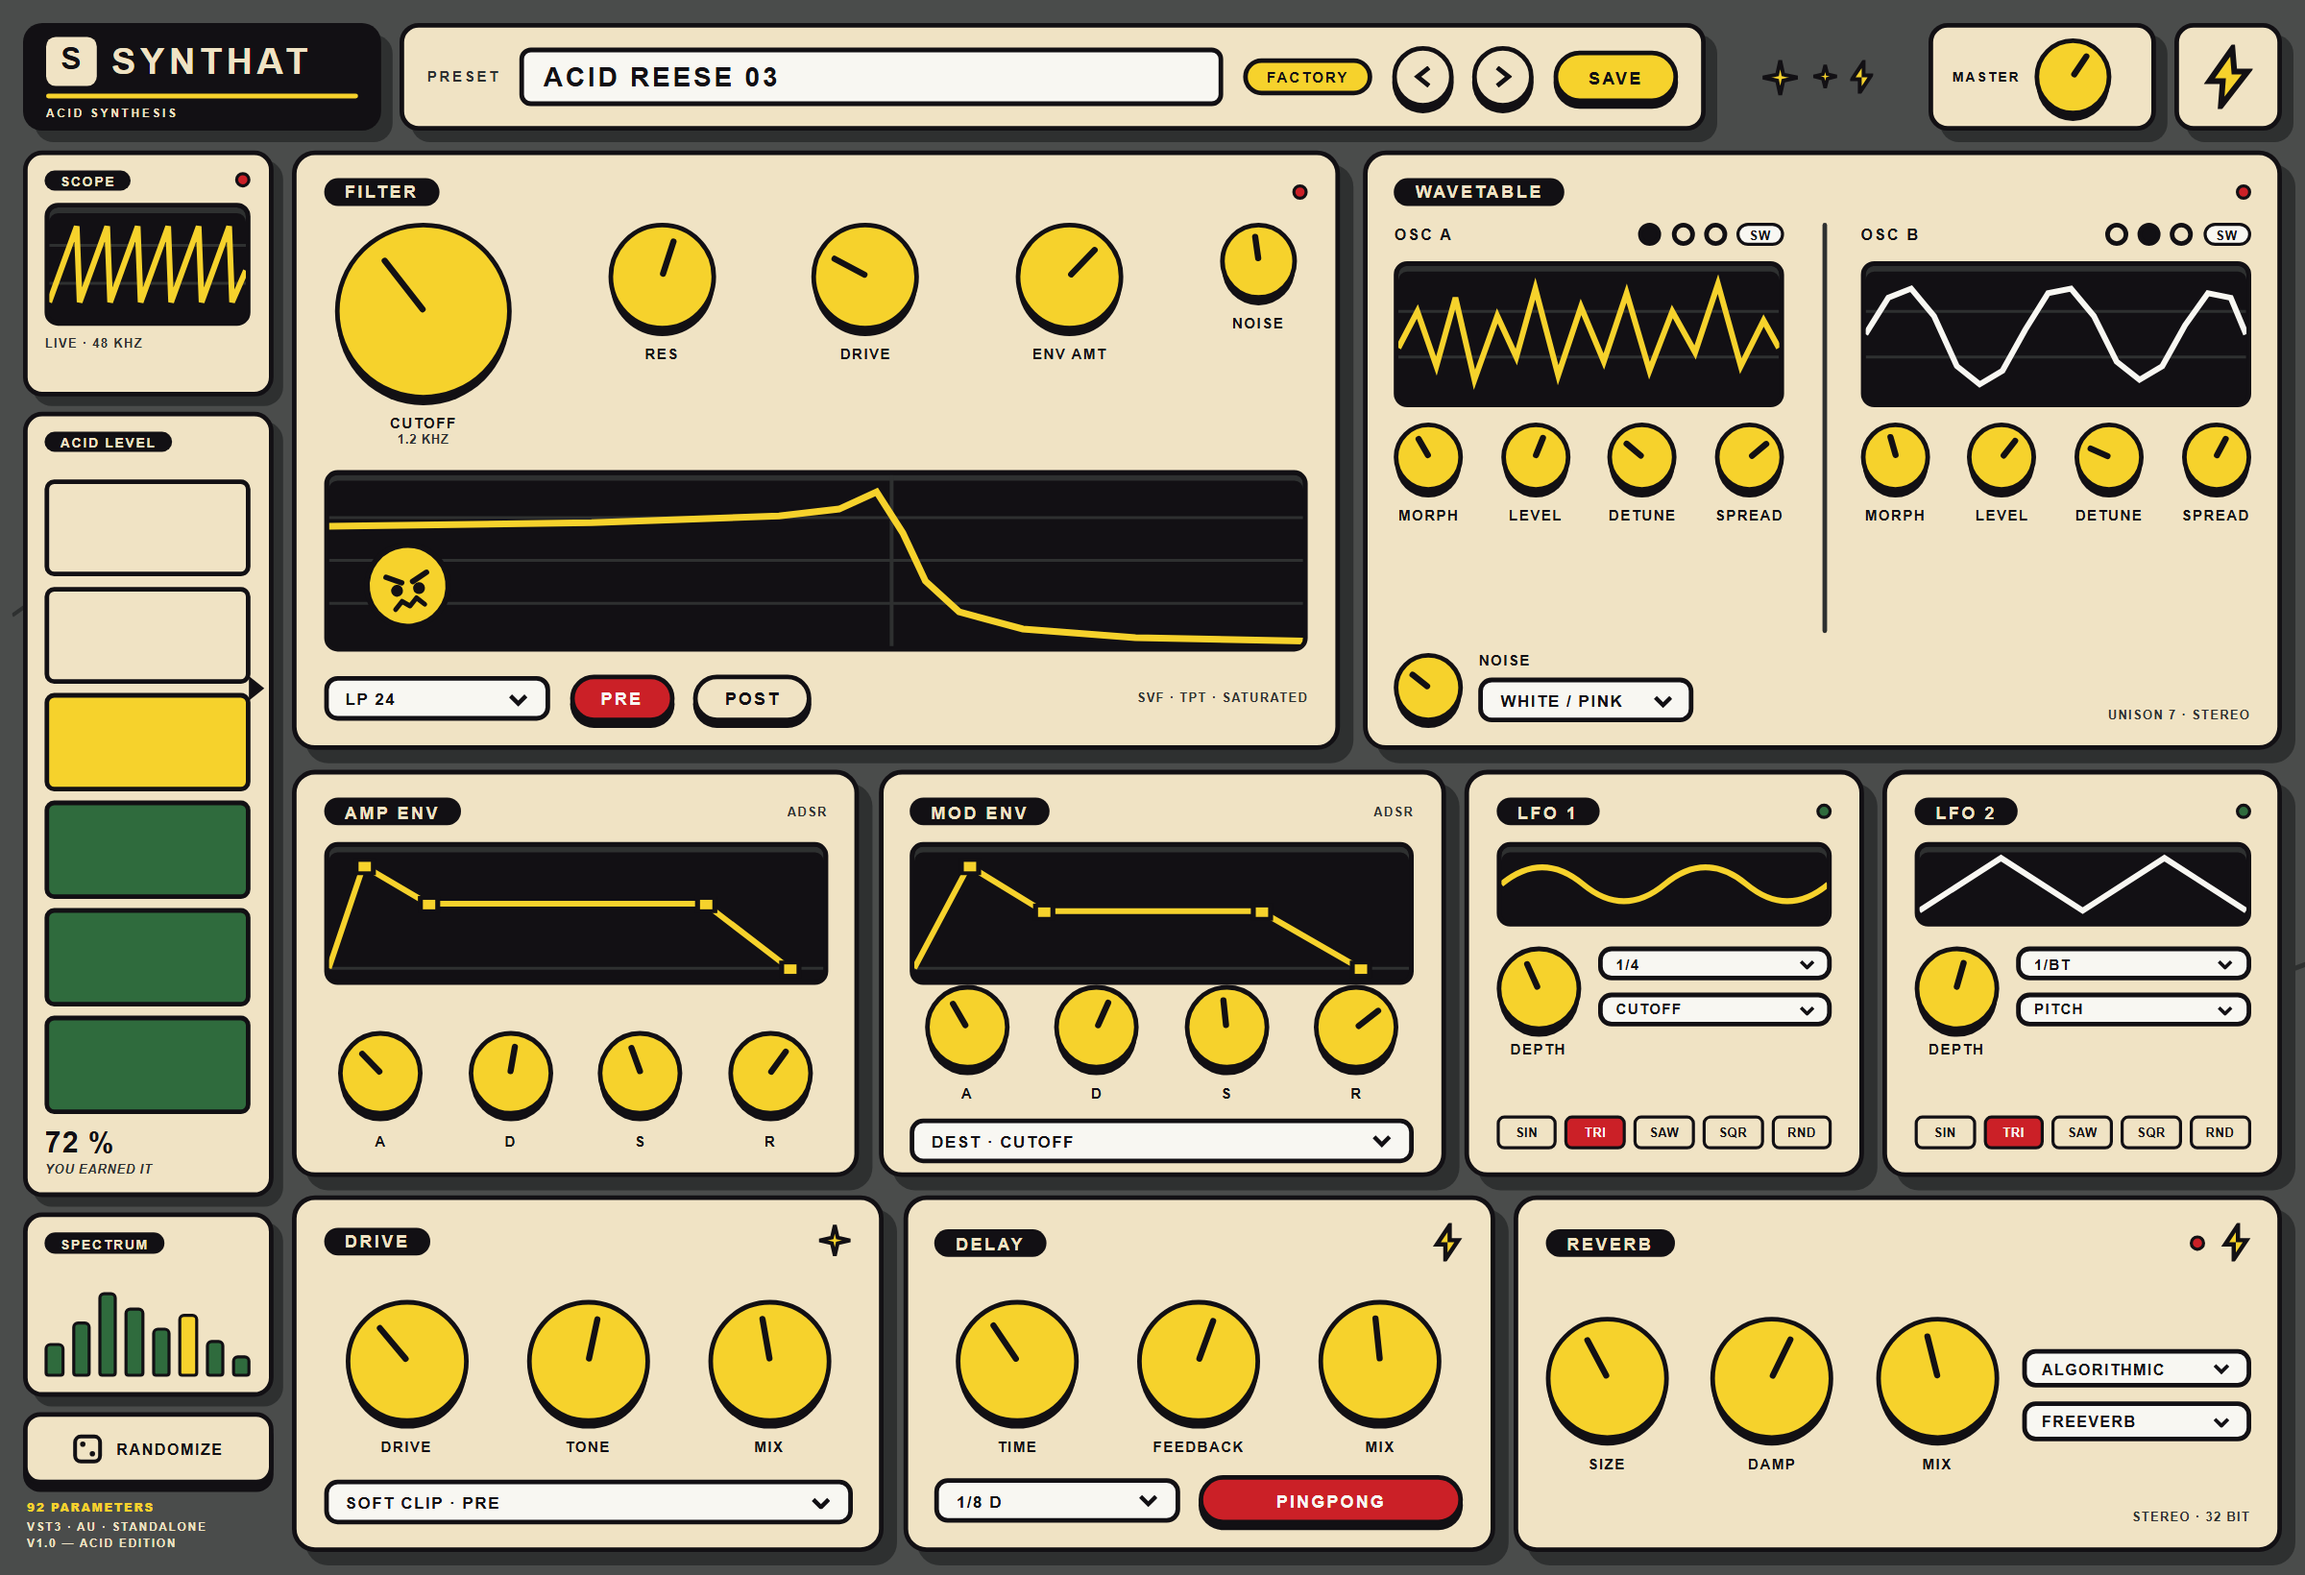
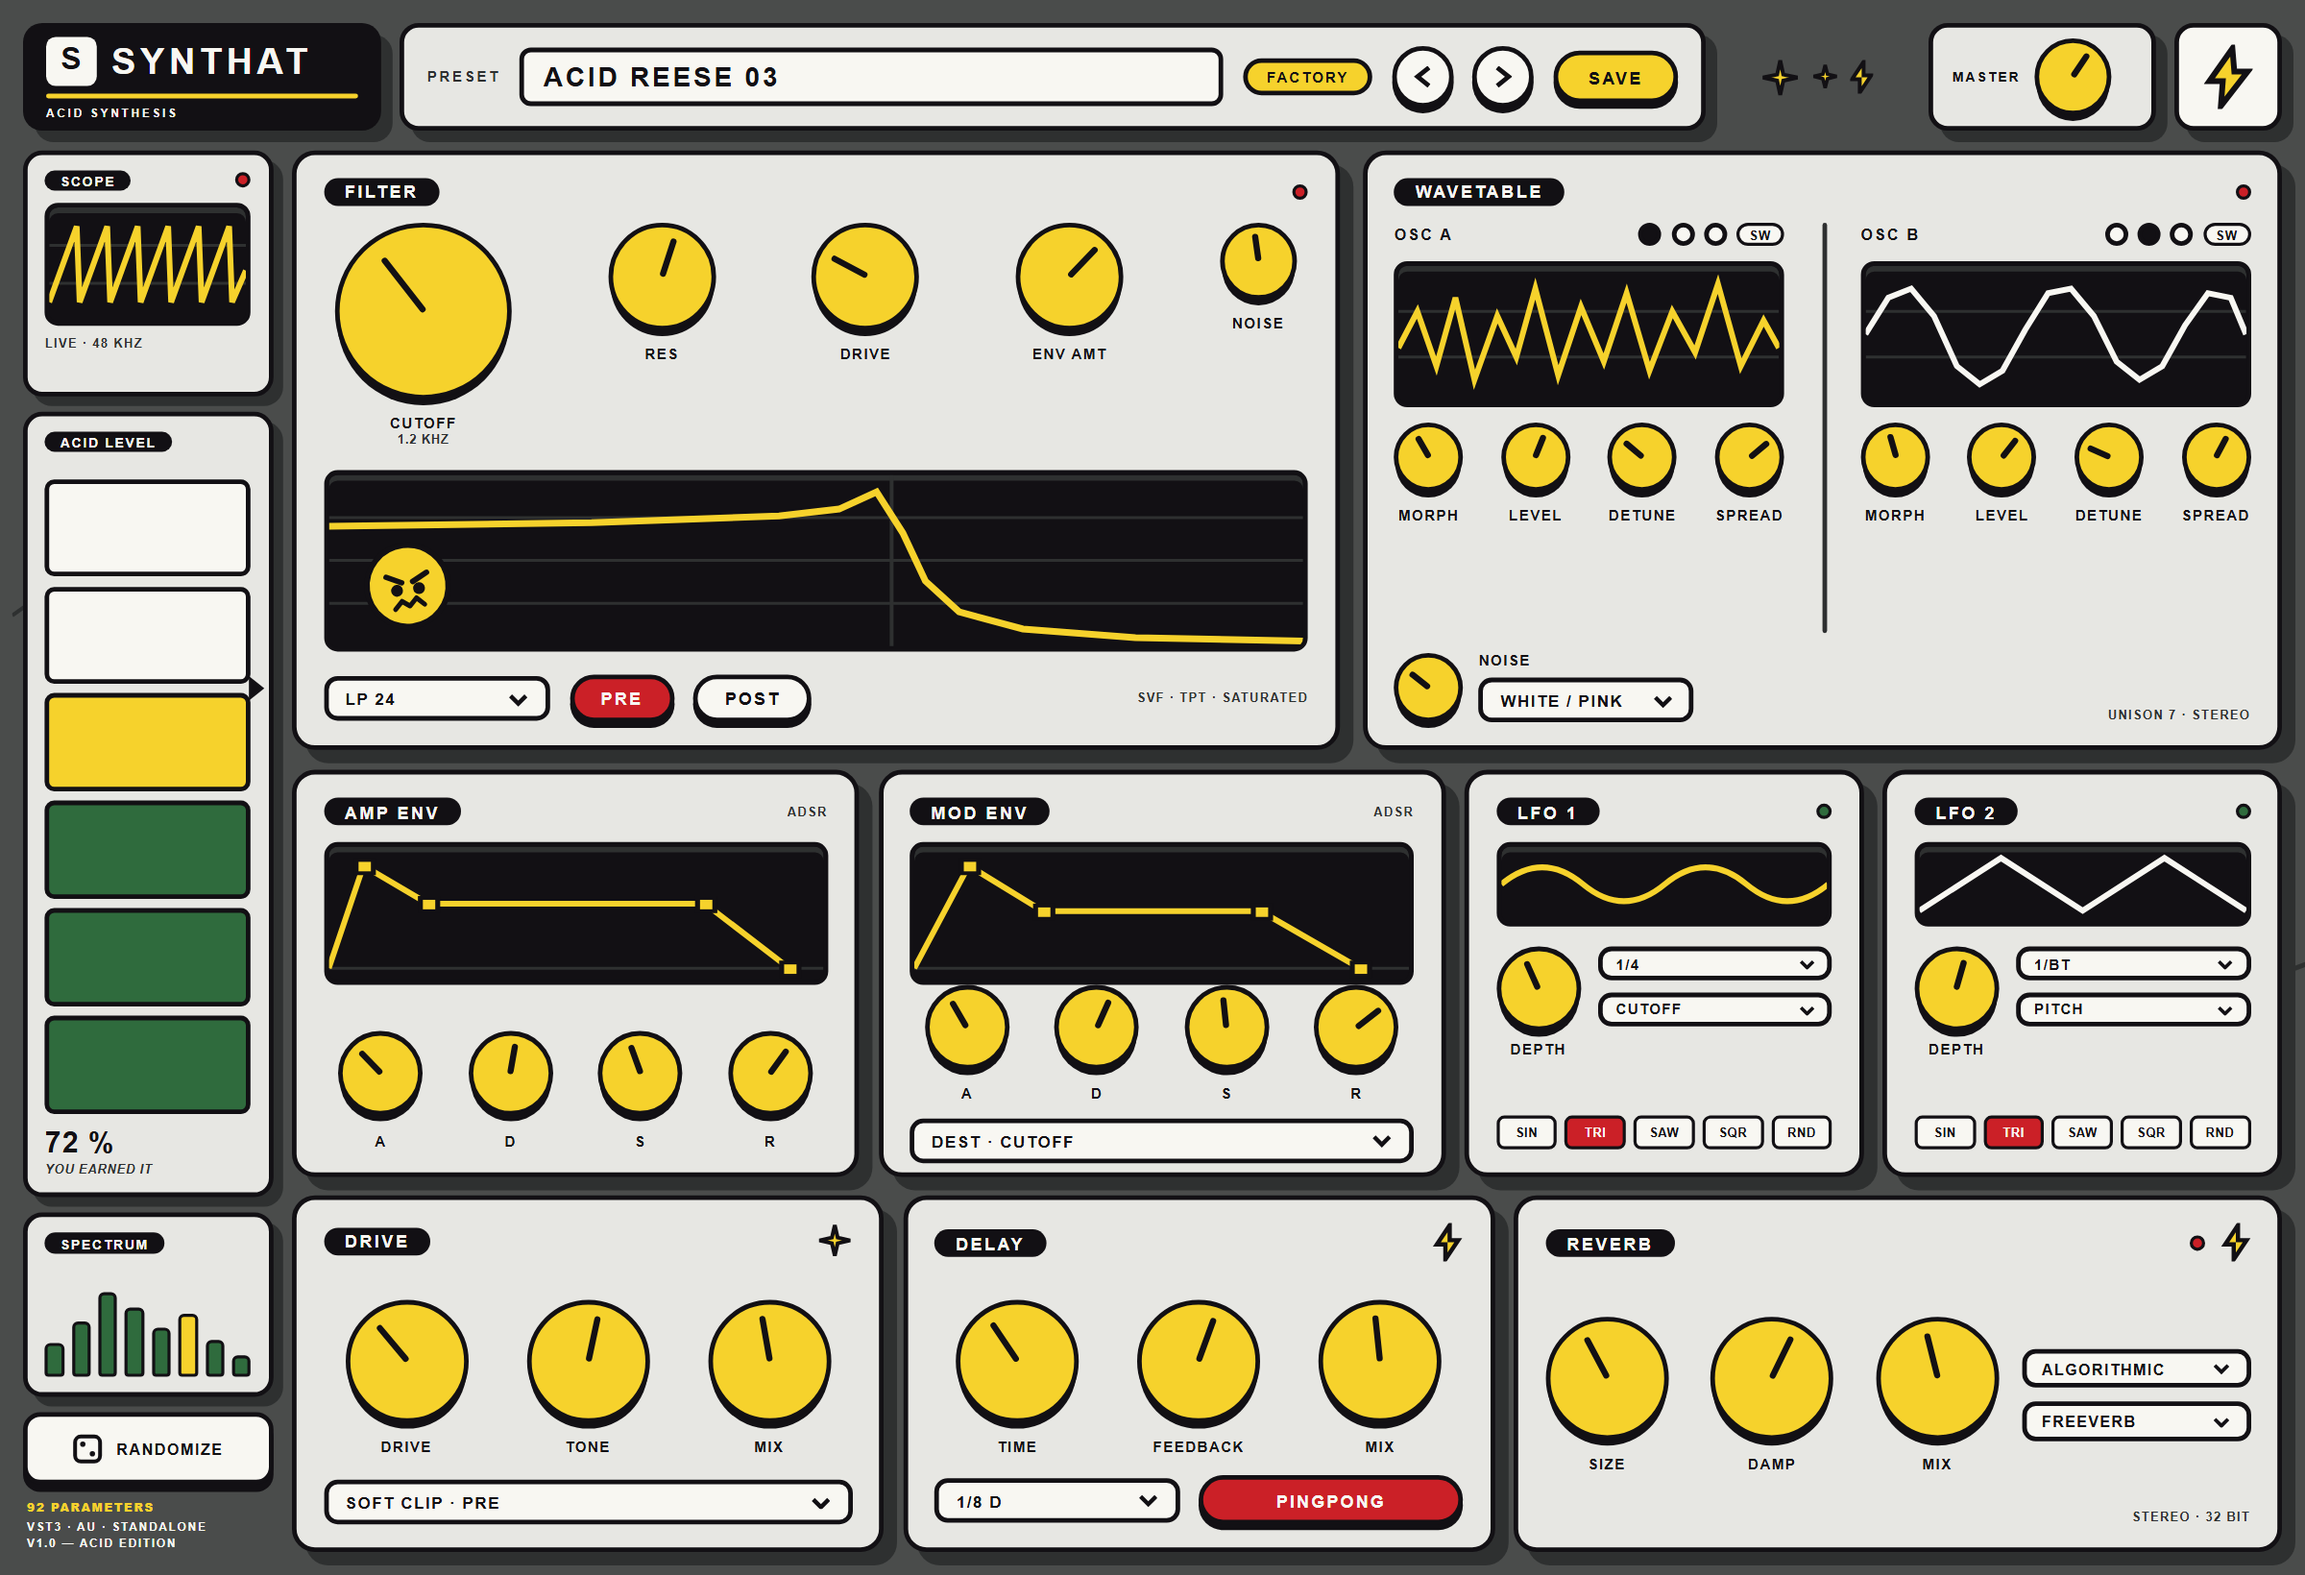
fix: neutro freddo al posto del crema nei pannelli
Il beige crema dei pannelli leggeva rosato: pannelli su grigio neutro
#E7E7E3, controlli e campi su bianco carta #F8F7F2, giallo invariato.

🤖 Generated with Codebuff

diff --git a/synthat/index.html b/synthat/index.html
@@ -7,7 +7,7 @@
   :root{
     --ink:#121014;
     --paper:#F8F7F2;
-    --crema:#F0E3C4;
+    --panel:#E7E7E3;
     --asfalto:#4A4C4B;
     --giunto:#2E3030;
     --giallo:#F6D22C;
@@ -34,18 +34,18 @@
   .r3{height:186px;gap:10px}
 
   .panel{
-    background:var(--crema);border:3px solid var(--ink);border-radius:12px;
+    background:var(--panel);border:3px solid var(--ink);border-radius:12px;
     box-shadow:7px 7px 0 var(--giunto);
     display:flex;flex-direction:column;padding:12px 14px;min-width:0;position:relative;
   }
   .card{
-    background:var(--crema);border:2.5px solid var(--ink);border-radius:10px;
+    background:var(--panel);border:2.5px solid var(--ink);border-radius:10px;
     box-shadow:5px 5px 0 var(--giunto);
     display:flex;flex-direction:column;padding:8px 9px;position:relative;min-height:0;
   }
 
   .phead{display:flex;align-items:center;justify-content:space-between;gap:8px;margin-bottom:9px;flex:none}
-  .ptitle{background:var(--ink);color:var(--crema);border-radius:999px;padding:3px 11px 2px;font-size:9px;letter-spacing:.14em}
+  .ptitle{background:var(--ink);color:var(--paper);border-radius:999px;padding:3px 11px 2px;font-size:9px;letter-spacing:.14em}
   .led{width:8px;height:8px;border-radius:50%;background:var(--rosso);border:2px solid var(--ink);flex:none}
   .note{font-size:6.5px;letter-spacing:.1em;color:var(--giunto)}
 
@@ -71,15 +71,15 @@
   .sel{display:flex;align-items:center;justify-content:space-between;gap:8px;background:var(--paper);
        border:2.5px solid var(--ink);border-radius:7px;padding:5px 9px 4px;font-size:8.5px;letter-spacing:.09em}
   .sel svg{flex:none}
-  .btn{display:flex;align-items:center;justify-content:center;gap:6px;background:var(--crema);
+  .btn{display:flex;align-items:center;justify-content:center;gap:6px;background:var(--paper);
        border:2.5px solid var(--ink);border-radius:999px;padding:6px 14px 5px;font-size:9px;
        letter-spacing:.12em;box-shadow:0 3px 0 var(--ink);font-weight:700}
   .btn.on{background:var(--rosso);color:var(--paper)}
   .btn.gold{background:var(--giallo)}
   .wbtn{flex:1;text-align:center;font-size:6.5px;letter-spacing:.04em;padding:4px 0 3px;
-        border:2px solid var(--ink);border-radius:4px;background:var(--crema)}
+        border:2px solid var(--ink);border-radius:4px;background:var(--paper)}
   .wbtn.on{background:var(--rosso);color:var(--paper)}
-  .tog{width:12px;height:12px;border-radius:50%;border:2.5px solid var(--ink);background:var(--crema)}
+  .tog{width:12px;height:12px;border-radius:50%;border:2.5px solid var(--ink);background:var(--paper)}
   .tog.on{background:var(--ink)}
   .sw{font-size:6.5px;letter-spacing:.08em;border:2px solid var(--ink);border-radius:999px;padding:1px 5px 0;background:var(--paper)}
   .row-c{display:flex;align-items:center;gap:8px}
@@ -88,35 +88,35 @@
   .brand{background:var(--ink);border-radius:10px;box-shadow:6px 6px 0 var(--giunto);
          padding:7px 12px 6px;display:flex;flex-direction:column;justify-content:center;gap:4px;width:186px;flex:none}
   .brandrow{display:flex;align-items:center;gap:8px}
-  .sbox{width:26px;height:26px;background:var(--crema);border-radius:5px;display:flex;align-items:center;
+  .sbox{width:26px;height:26px;background:var(--paper);border-radius:5px;display:flex;align-items:center;
         justify-content:center;font-size:16px;letter-spacing:0;color:var(--ink);padding-bottom:2px}
-  .brandtxt{color:var(--crema);font-size:19px;letter-spacing:.12em;line-height:1}
+  .brandtxt{color:var(--paper);font-size:19px;letter-spacing:.12em;line-height:1}
   .brandrule{height:3px;background:var(--giallo);border-radius:2px}
-  .brandsub{color:var(--crema);font-size:6px;letter-spacing:.22em;opacity:1}
+  .brandsub{color:var(--paper);font-size:6px;letter-spacing:.22em;opacity:1}
 
-  .presetbar{flex:1;background:var(--crema);border:3px solid var(--ink);border-radius:10px;
+  .presetbar{flex:1;background:var(--panel);border:3px solid var(--ink);border-radius:10px;
              box-shadow:6px 6px 0 var(--giunto);display:flex;align-items:center;gap:10px;padding:0 12px;min-width:0}
   .plabel{font-size:7.5px;letter-spacing:.18em;color:var(--giunto)}
   .pfield{flex:1;background:var(--paper);border:2.5px solid var(--ink);border-radius:6px;padding:5px 10px 4px;
           font-size:14px;letter-spacing:.1em;min-width:0;overflow:hidden;white-space:nowrap}
   .ptag{background:var(--giallo);border:2.5px solid var(--ink);border-radius:999px;padding:4px 10px 3px;
         font-size:7.5px;letter-spacing:.14em;flex:none}
-  .circ{width:32px;height:32px;border-radius:50%;background:var(--crema);border:2.5px solid var(--ink);
+  .circ{width:32px;height:32px;border-radius:50%;background:var(--paper);border:2.5px solid var(--ink);
         display:flex;align-items:center;justify-content:center;flex:none;box-shadow:0 3px 0 var(--ink)}
   .sparks{width:96px;flex:none;display:flex;align-items:center;justify-content:center;gap:6px}
 
-  .mastercard{width:118px;flex:none;background:var(--crema);border:3px solid var(--ink);border-radius:10px;
+  .mastercard{width:118px;flex:none;background:var(--panel);border:3px solid var(--ink);border-radius:10px;
               box-shadow:6px 6px 0 var(--giunto);display:flex;align-items:center;gap:9px;padding:0 10px}
   .mlabel{font-size:7px;letter-spacing:.14em;line-height:1.2;color:var(--ink);width:34px}
-  .boltcard{width:56px;flex:none;background:var(--crema);border:3px solid var(--ink);border-radius:10px;
+  .boltcard{width:56px;flex:none;background:var(--paper);border:3px solid var(--ink);border-radius:10px;
             box-shadow:6px 6px 0 var(--giunto);display:flex;align-items:center;justify-content:center}
 
   /* ---------- rail ---------- */
   .railhead{display:flex;align-items:center;justify-content:space-between;margin-bottom:6px;flex:none}
-  .railpill{background:var(--ink);color:var(--crema);border-radius:999px;padding:2px 8px 1px;font-size:7px;letter-spacing:.12em}
+  .railpill{background:var(--ink);color:var(--paper);border-radius:999px;padding:2px 8px 1px;font-size:7px;letter-spacing:.12em}
   .acidcard{flex:1;display:flex;flex-direction:column;gap:8px;min-height:0}
   .segs{flex:1;display:flex;flex-direction:column;gap:5px;min-height:0}
-  .seg{border:2.5px solid var(--ink);border-radius:5px;background:var(--crema);flex:1}
+  .seg{border:2.5px solid var(--ink);border-radius:5px;background:var(--paper);flex:1}
   .seg.on{background:var(--verde)}
   .seg.hot{background:var(--giallo)}
   .acidrow{display:flex;gap:8px;min-height:0;flex:1;position:relative}
@@ -128,10 +128,10 @@
   .bars{display:flex;align-items:flex-end;gap:4px;height:44px;margin-top:auto}
   .bar{flex:1;background:var(--verde);border:2px solid var(--ink);border-radius:3px 3px 2px 2px}
   .bar.hot{background:var(--giallo)}
-  .randbtn{width:100%;background:var(--crema);border:2.5px solid var(--ink);border-radius:9px;
+  .randbtn{width:100%;background:var(--paper);border:2.5px solid var(--ink);border-radius:9px;
            box-shadow:0 4px 0 var(--ink);display:flex;align-items:center;justify-content:center;gap:7px;
            padding:9px 0 8px;font-size:8px;letter-spacing:.1em;flex:none}
-  .sig{font-size:6px;letter-spacing:.14em;color:var(--crema);line-height:1.5;flex:none;padding-left:2px}
+  .sig{font-size:6px;letter-spacing:.14em;color:var(--paper);line-height:1.5;flex:none;padding-left:2px}
   .sig b{color:var(--giallo)}
 
   /* ---------- wavetable ---------- */
@@ -258,7 +258,7 @@
 
       <div class="randbtn">
         <svg width="16" height="16" viewBox="0 0 16 16">
-          <rect x="1.5" y="1.5" width="13" height="13" rx="3" fill="#F0E3C4" stroke="#121014" stroke-width="2"/>
+          <rect x="1.5" y="1.5" width="13" height="13" rx="3" fill="#F8F7F2" stroke="#121014" stroke-width="2"/>
           <circle cx="5.5" cy="5.5" r="1.4" fill="#121014"/><circle cx="10.5" cy="10.5" r="1.4" fill="#121014"/>
         </svg>
         RANDOMIZE
